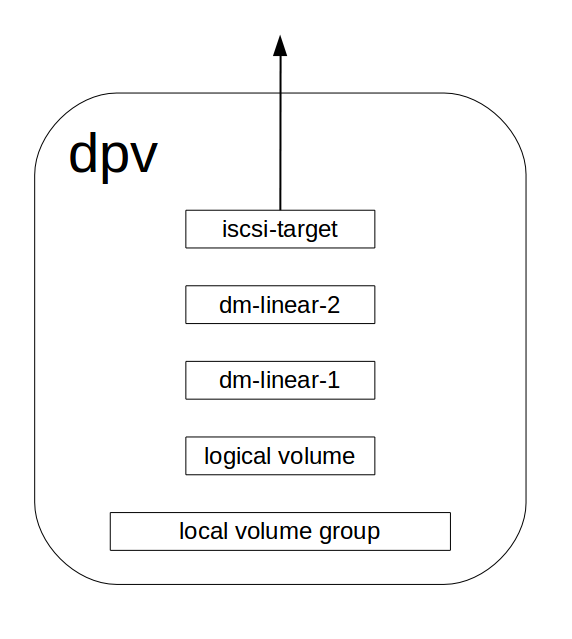
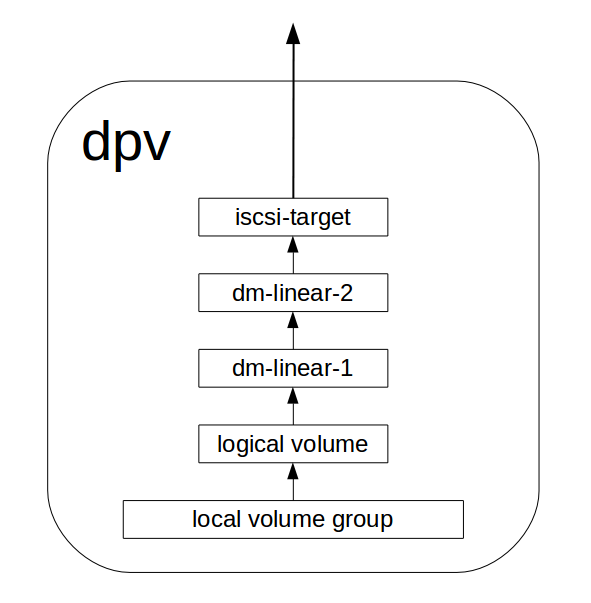
add dpv and ihost details

diff --git a/Introduction.rst b/Introduction.rst
@@ -29,11 +29,26 @@ Below is the architecture of the dlvm service:
 
 There are 6 components of the dlvm services:
 
-* API Server
-* DB
-* dpv
-* ihost
-* Message Queue
-* Monitor
+* API Server: provide restful api, stateless
+* DB: database, sqlite (only for test propuse), postgresql,
+  mysql/mariadb
+* dpv: storage server, run dlvm_dpv_agent, accept rpc call from api
+  server, export volume to ihost
+* ihost: the host which the dlv can be attached to run
+  dlvm_ihost_agent, accept rpc call from api server
+* Message Queue: rabbitmq or redis
+* Monitor: get information from message queu, e.g. a leg of dlv is
+  failed, trigger a failover job
+
+dpv details:
+
+.. figure:: image/dpv.png
+   :scale: 50%
+
+ihost details:
+
+.. figure:: image/ihost.png
+   :scale: 50%
+
 
 .. _LVM: https://en.wikipedia.org/wiki/Logical_Volume_Manager_%28Linux%29
